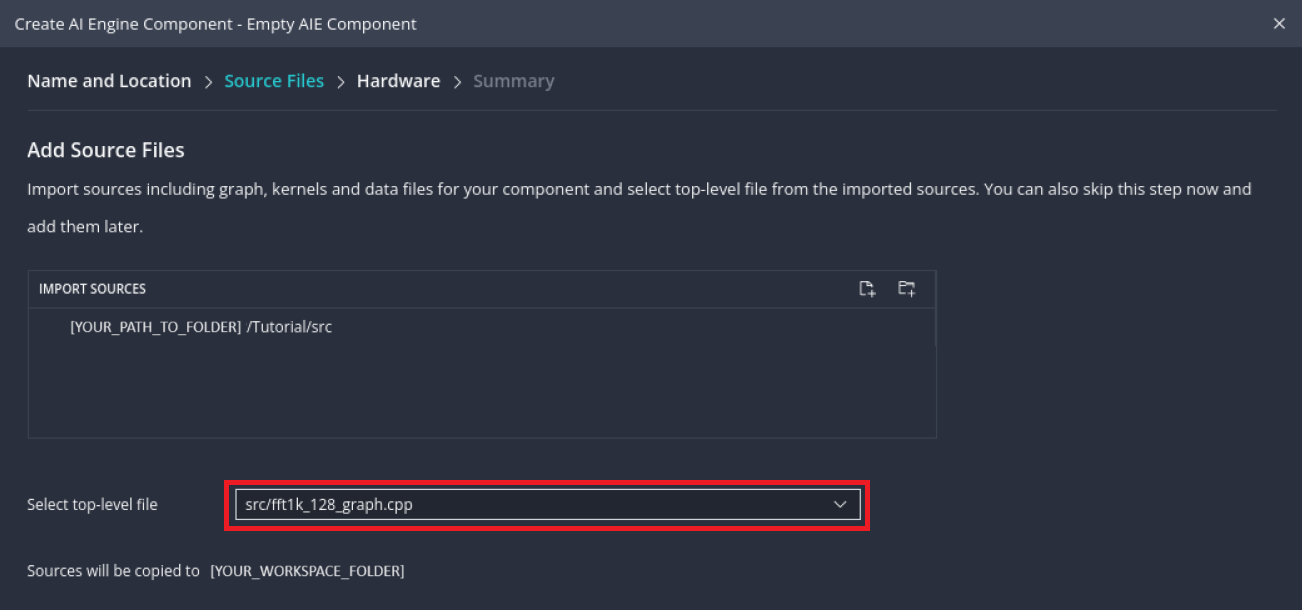
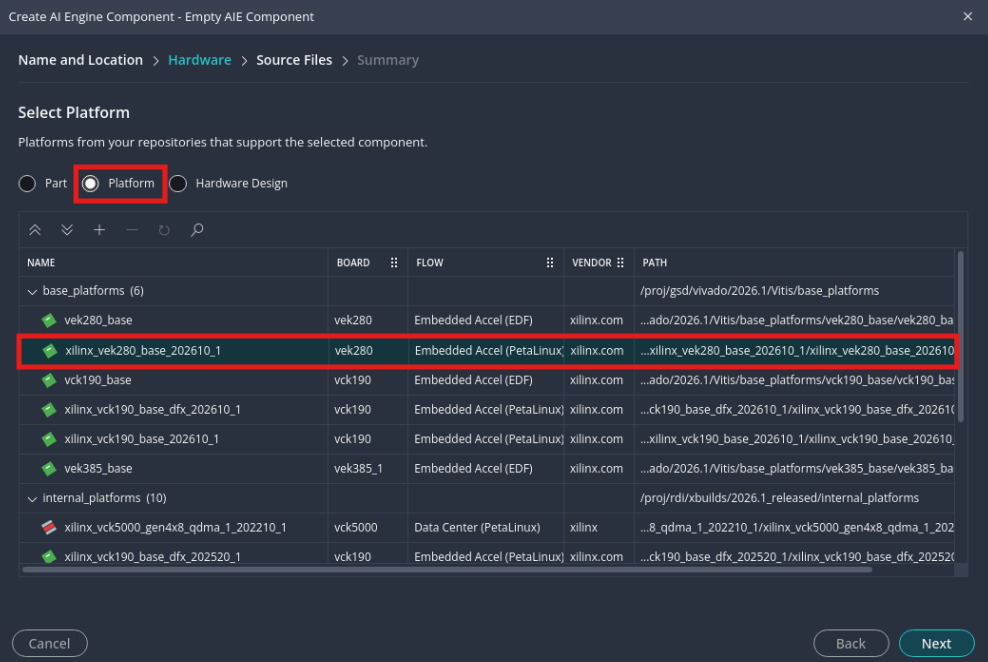
AIE-ML/D/04-AIE-API-FFT: 2026.1 update

diff --git a/AI_Engine_Development/AIE-ML/Design_Tutorials/04-AIE-API-based-FFT-for-many-instances-applications/README.md b/AI_Engine_Development/AIE-ML/Design_Tutorials/04-AIE-API-based-FFT-for-many-instances-applications/README.md
@@ -15,7 +15,7 @@
 
 # AIE API based FFT for Many Instances Applications on AIE-ML <!-- omit from toc -->
 
-***Version: Vitis 2025.2***
+***Version: Vitis 2026.1***
 
 ## Introduction
 
@@ -80,7 +80,7 @@ To thoroughly understand the content of this tutorial, it is necessary to know a
 For further information, please refer to the following documentation:
 
 - [AI Engine-ML Kernel and Graph Programming Guide (UG1603)](https://docs.amd.com/r/en-US/ug1603-ai-engine-ml-kernel-graph)
-- [AI Engine API User Guide (UG1529)](https://www.xilinx.com/htmldocs/xilinx2025_2/aiengine_api/aie_api/doc)
+- [AI Engine API User Guide (UG1529)](https://www.xilinx.com/htmldocs/xilinx2026_1/aiengine_api/aie_api/doc)
 - [AI Engine Tools and Flows User Guide (UG1076)](https://docs.amd.com/r/en-US/ug1076-ai-engine-environment)
 - [Versal Adaptive SoC AIE-ML Architecture Manual (AM020)](https://docs.amd.com/r/en-US/am020-versal-aie-m)
 - [Versal Adaptive SoC Technical Reference Manual (AM011)](https://docs.amd.com/r/en-US/am011-versal-acap-trm)
@@ -150,7 +150,7 @@ The resulting system follows the diagram shown in figure 1, where 128 instances 
 In this section it is explained the rationale of the kernel and graph implementation, that has been done following the coding guidelines found in:
 
 - [AI Engine-ML Kernel and Graph Programming Guide (UG1603)](https://docs.amd.com/r/en-US/ug1603-ai-engine-ml-kernel-graph)
-- [AI Engine API User Guide (UG1529)](https://www.xilinx.com/htmldocs/xilinx2025_2/aiengine_api/aie_api/doc)
+- [AI Engine API User Guide (UG1529)](https://www.xilinx.com/htmldocs/xilinx2026_1/aiengine_api/aie_api/doc)
 
 ### Designing the Kernel with the AI Engine API
 
@@ -224,7 +224,7 @@ The file structure of choice to write the kernels is:
 ##### Twiddles Header File
 
 The first header file, that contains all the twiddle factor entries, is a rather long file. Because of the regular structure of the code, and because the mathematical formula to compute the twiddles is well known, the better choice is to generate the header file using a script.
-The twiddle generation script, written in Python following the [AIE API](https://www.xilinx.com/htmldocs/xilinx2025_2/aiengine_api/aie_api/doc/group__group__fft.html) guidelines, along with an explanation of its functionalities can be found in the [support twiddles folder](./support/twiddles/) of this repository.
+The twiddle generation script, written in Python following the [AIE API](https://www.xilinx.com/htmldocs/xilinx2026_1/aiengine_api/aie_api/doc/group__group__fft.html) guidelines, along with an explanation of its functionalities can be found in the [support twiddles folder](./support/twiddles/) of this repository.
 
 In particular, the defined twiddles vectors are organized with two subscripts, the first indicating the FFT stage, and the second indicating the stage entry. Thus for instance, the third entry of the fifth stage of a radix-4 FFT stage will be named *TWID4_2*. Because this project is about a radix-4 staged implementation, the generated header file contains 15 twiddle tables, three per each of the five stages.
 
@@ -605,12 +605,12 @@ To create the AIE-ML project in Vitis Unified IDE, follow those steps:
    ![AI Engine Component Creation in Vitis Unified IDE](./images/2_1_Vitis.png)
    > *Fig. 4*: AI Engine Component Creation in Vitis Unified IDE
 5. Select the project name and component directory and press "next".
-6. Select "Add folder" and import the `src` folder of this repository. Make sure that `fft1k_128_graph.cpp` is the top-level file and press "next".
-  ![AIE Component Creation - Source Files Selection](./images/2_2_Vitis.png)
-  > *Fig. 5*: AIE Component Creation - Source Files Selection
-7. When chosing the hardware, select the VEK280 board-based platform, as shown in the following figure, and press "next", and then "finish".
-   ![AIE Component Creation - Platform Selection](./images/2_3_Vitis.png)
-   > *Fig. 6*: AIE Component Creation - Platform Selection
+6. When chosing the hardware, select the VEK280 board-based platform, as shown in the following figure, and press "next".
+  ![AIE Component Creation - Platform Selection](./images/2_2_Vitis.png)
+  > *Fig. 5*: AIE Component Creation - Platform Selection
+7. Select "Add folder" and import the `src` folder of this repository. Make sure that `fft1k_128_graph.cpp` is the top-level file and press "next", and then "finish".
+   ![AIE Component Creation - Source Files Selection](./images/2_3_Vitis.png)
+   > *Fig. 6*: AIE Component Creation - Source Files Selection
 8. Open the compiler configuration clicking on `aiecompiler.cfg` under the AI Engine Component's setting folder on the left hand side of the GUI, then click on AI Engine and set the PL frequency to 500MHz, as decided in the design phase of the tutorial.
    ![Selecting the Programmable Logic Frequency in the AI Engine Compile Settings](./images/2_4_Vitis.png)
    > *Fig. 7*: Selecting the Programmable Logic Frequency in the AI Engine Compile Settings
@@ -745,6 +745,6 @@ GitHub issues will be used for tracking requests and bugs. For questions, go to 
 
 <hr class="sphinxhide"></hr>
 
-<p class="sphinxhide" align="center"><sub>Copyright © 2021–2025 Advanced Micro Devices, Inc.</sub></p>
+<p class="sphinxhide" align="center"><sub>Copyright © 2021–2026 Advanced Micro Devices, Inc.</sub></p>
 
 <p class="sphinxhide" align="center"><sup><a href="https://www.amd.com/en/corporate/copyright">Terms and Conditions</a></sup></p>
